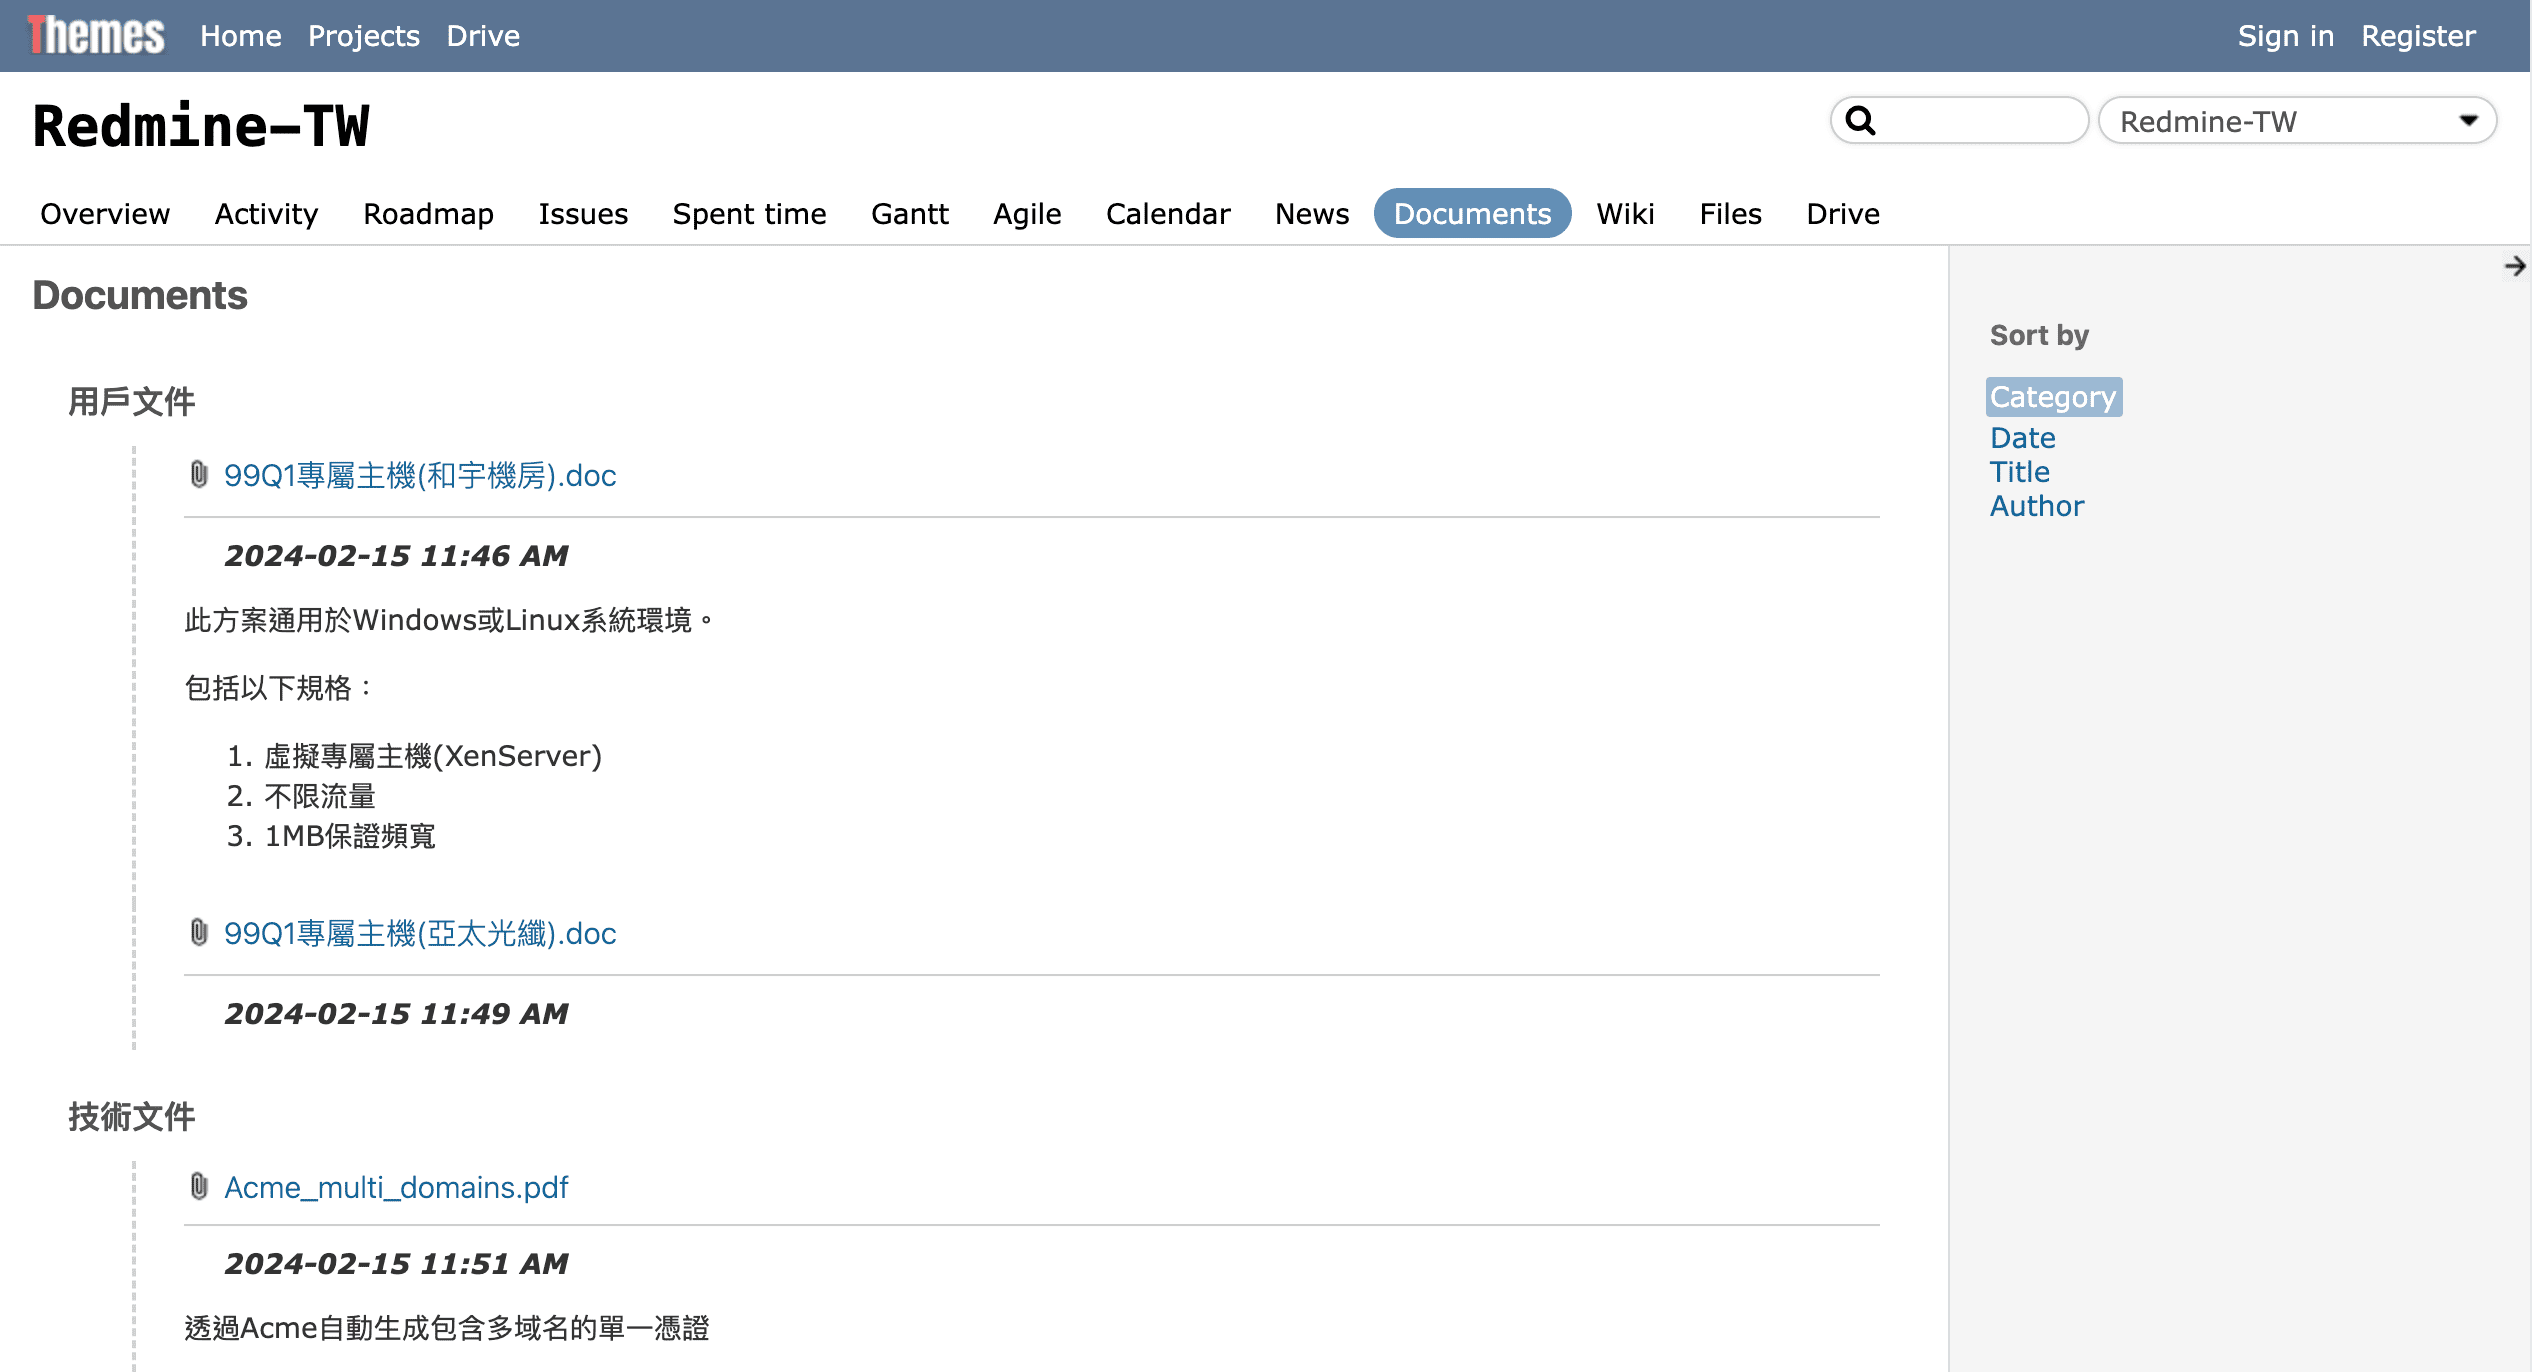
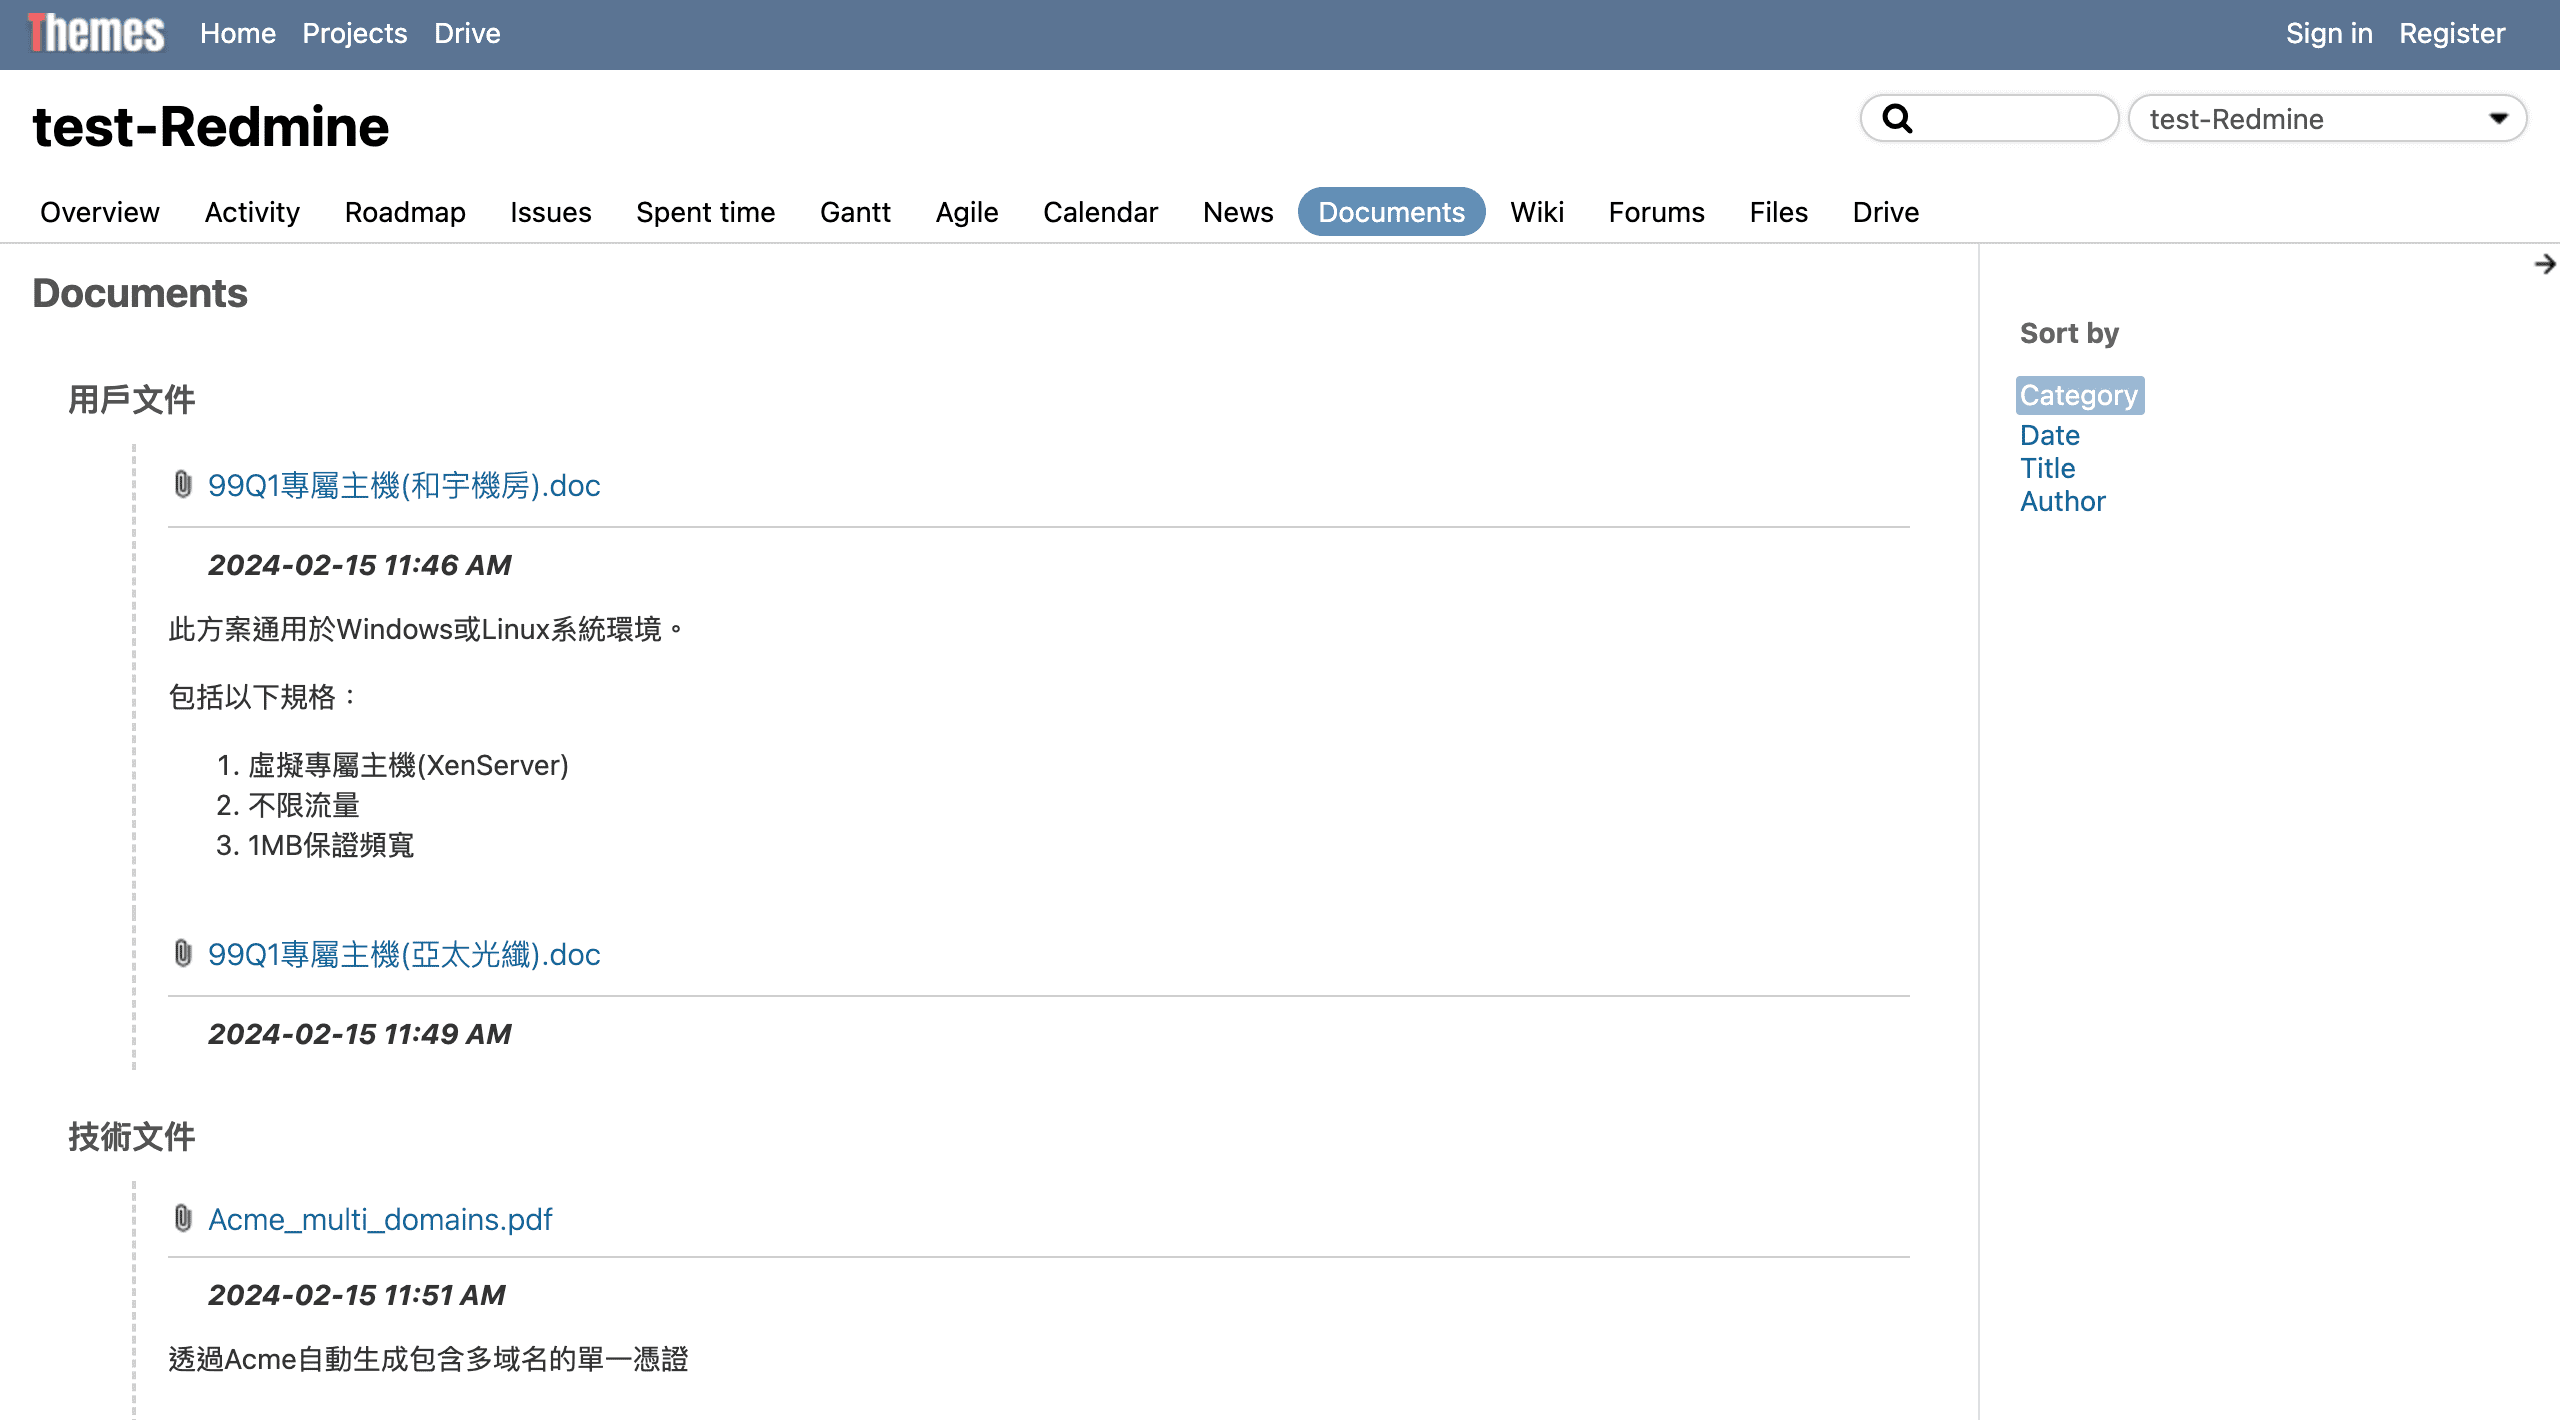
update to version 2.1.0

diff --git a/stylesheets/application.css b/stylesheets/application.css
@@ -1,9 +1,9 @@
 /**
- * TW-Style theme version 2.0.4, Copyright (C) 2024 Tomy Shen
+ * TW-Style theme version 2.1.0, Copyright (C) 2024 Tomy Shen
  *
  * Author: Tomy Shen (tomy843012@hotmail.com)
  * Website: https://redmine-tw.net
- * @2024-04-16
+ * @2024-05-16
  * @license https://opensource.org/license/mit/
  *
  */
@@ -14,7 +14,11 @@
 #top-menu li { padding-right: 5px; }
 #top-menu a  { font-weight: unset; }
 #header { background-color: white; min-height: 4.4em;box-shadow: 0px 5px 10px -5px lightgray; }
-#header h1 { color: black; margin-top: 5px; font-family: "Courier Prime", monospace , system-ui, "Trebuchet MS", Verdana, sans-serif; }
+#header h1 {
+    color: black;
+    margin-top: 5px;
+    font-family: -apple-system, "Microsoft JhengHei", BlinkMacSystemFont, "Segoe UI", "Roboto", "Oxygen", "Ubuntu", "Fira Sans", "Droid Sans", "Helvetica Neue", sans-serif;
+}
 #header a { color: black; }
 #quick-search { margin-top: 8px; }
 button.tab-left, button.tab-right { border: 0; border-radius: 0; } /* Main-menu extend button */
@@ -29,14 +33,14 @@ button.tab-left, button.tab-right { border: 0; border-radius: 0; } /* Main-menu 
 #sidebar    { background: white; }
 #projects-index { column-width: unset; -webkit-column-width: unset; margin:-5px; }
 #projects-index ul.projects.root { display: flex ;flex-wrap: wrap; }
-#projects-index ul.projects li.root { box-shadow: 0 3px 9px rgba(0,0,0,.2); border-radius: 8px; margin: 8px; width: calc(25% - 10px); }
+#projects-index ul.projects li.root { box-shadow: 0 3px 9px rgba(0,0,0,.2); border-radius: 0px; margin: 8px; width: calc(25% - 10px); }
 #projects-index a.icon-user.icon-bookmarked-project { background-image: url(icons/bookmarked-project.png), url(icons/user.png); }
 #history .tab-content { padding: 0 12px; box-shadow: 0 1px 3px rgba(0,0,0,.07); border-bottom-right-radius: 8px; border-bottom-left-radius: 8px; }
 #content .tabs ul li a { border: 1px solid transparent; }
 #footer::after { content:"\A TW-Style - Theme designed by tomy from Redmine-TW © 2023-2024"; white-space: pre-wrap; }
 #login-form { border: 1px solid transparent; background-color: transparent; }
-input#login-submit { color: white;background: #3E5B76; border: 0px; }
-input#username, input#password { border-top: 0px;border-left: 0px; border-right: 0px; border-radius: 0px; }
+input#login-submit { color: white; background: #3E5B76; border: 0px; }
+#login-form input#username, #login-form input#password { border-top: 0px; border-left: 0px; border-right: 0px; border-radius: 0px; }
 
 body { font-size: 14px; }
 table { border-spacing: 0; border-collapse: collapse; }
@@ -79,7 +83,7 @@ input[type="submit"]:hover { background-color: #A7C7E7; }
   height: 22px;
   line-height: 22px;
   vertical-align: middle;
-  background-color: #eeeeee;
+  background-color: whitesmoke;
   border-radius: 3px;
   background-position: 15% 50%;
 }
@@ -161,7 +165,9 @@ div#top-menu {
 }
 
 /* Global */
-h1, h2, h3, h4, h5, h6 { font-family: system-ui, "Trebuchet MS", Verdana, sans-serif; }
+h1, h2, h3, h4, h5, h6 {
+    font-family: -apple-system, "Microsoft YaHei", BlinkMacSystemFont, "Segoe UI", "Roboto", "Oxygen", "Ubuntu", "Fira Sans", "Droid Sans", "Helvetica Neue", sans-serif;
+}
 /* Top MENU #5B7493 */
 #top-menu { background-color: #5B7493; font-size: 1em; padding: 6px 14px; height: unset; line-height: 1.8em }
 #top-menu a { text-decoration:none; }
@@ -182,6 +188,20 @@ h1, h2, h3, h4, h5, h6 { font-family: system-ui, "Trebuchet MS", Verdana, sans-s
 #quick-search #project-jump { box-shadow: 0 0px 3px rgba(0,0,0,.1);border-radius: 25px; }
 input#q.small { padding-left: 28px; box-shadow: 0 0px 3px rgba(0,0,0,.1); } /* dialog cursor position */
 #quick-search #q:focus { border: 1px solid darkgray; } 
+/* Priority */
+.autoscroll table.list .priority-highest { background-color: #FFD3D3 } 
+.autoscroll table.list .priority-highest:hover { background-color: #FEFBE7 }
+.autoscroll table.list .priority-high2 { background-color: #FFE1E1 }
+.autoscroll table.list .priority-high2:hover { background-color: #FEFBE7 }
+.autoscroll table.list .priority-high3 { background-color: #FFEEEE }
+.autoscroll table.list .priority-high3:hover { background-color: #FEFBE7 }
+.autoscroll table.list .priority-lowest { background-color: #EAF7FF }
+.autoscroll table.list .priority-lowest:hover { background-color: #FEFBE7 }
+tr.time-entry td.issue a.issue {
+    padding: 2px 8px;
+    border: 1px solid lightgray;
+    margin-right: 4px;
+}
 /* Popup window style */
 div.modal { border-radius:0 ; padding: 0 0 4px 0; }
 .ui-widget.ui-widget-content { border: unset; }
@@ -305,7 +325,7 @@ blockquote {
     color: gray;
 }
 /* Plugin redmine-agile */
-body .issue-card { background-color: cornsilk; }
+body .issue-card { background-color: cornsilk; box-shadow: 0 3px 9px rgba(0,0,0,.2); }
 div.agile-board.autoscroll { background-color: whitesmoke; }
 .agile-board table.list.issues-board tbody tr { background-color: whitesmoke !important; }
 .planning-board .column-header { text-align: center; }

diff --git a/README.md b/README.md
@@ -6,7 +6,7 @@ A free Redmine theme made in Taiwan.
 
 With simple design, create a style that is compatible with English and Chinese visuals. This is my first time working on Github. If you like this, please feel free to give a star to this project.
 
-**Version：** 2.0.4
+**Version：** 2.1.0
 
 **Compatible with :** Redmine 5.1 - 4.1
 
@@ -16,6 +16,10 @@ With simple design, create a style that is compatible with English and Chinese v
 
 To install TW-Style, just download .zip and unpack it to your Redmine's public/themes folder.
 Then go to Redmine > Administration > Settings > Display and select TW-Style from the list and save the changes.
+
+## Issues are listed in different colors according to their priority
+
+Issue priorities can be added from the enumerations in the administration, and the weight is determined according to the sort order. By default, the lowest weight and the top three with the highest weight will be displayed in different color.
 
 ## How to replace Logo for your Redmine
 
@@ -29,9 +33,9 @@ Then go to Redmine > Administration > Settings > Display and select TW-Style fro
 
 ![screenshot02](screenshots/TW-Style-redmine-issue.png)
 
-![screenshot03](screenshots/TW-Style-redmine-gantt.png)
+![screenshot04](screenshots/TW-Style-redmine-issueList.png)
 
-![screenshot04](screenshots/TW-Style-redmine-roadmap.png)
+![screenshot03](screenshots/TW-Style-redmine-gantt.png)
 
 ## Contributing
 

diff --git a/CHANGELOG.md b/CHANGELOG.md
@@ -1,3 +1,11 @@
+v2.1.0 (2024-05-16):
+* 議題列表按照權重顯示不同的背景顏色
+* 專案卡片的視覺微調
+* Redmine Agile 卡片的視覺微調
+* 修正用戶修改密碼輸入框的 css style
+* 預設字型調整
+* 更新 Screenshots
+
 v2.0.4 (2024-04-16):
 * 文件頁面的視覺微調
 * 議題列表的視覺微調
